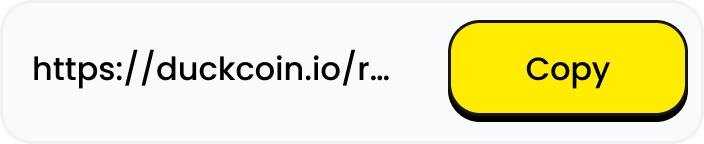
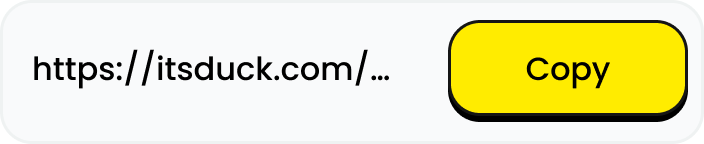
Test

Changed region(s): [[0.2188, 0.3333, 0.5625, 0.6111]]

diff --git a/app/components/page/presale/Referrals.vue b/app/components/page/presale/Referrals.vue
@@ -9,7 +9,7 @@
 
         <div class="copy">
           <p class="copy-text body-m">
-            https://duckcoin.io/ref/sqdd123utm_source=referral&utm_campaign=presale
+            https://itsduck.com/ref/sqdd123utm_source=referral&utm_campaign=presale
           </p>
 
           <button class="copy-btn" @click="copyRef">
@@ -69,7 +69,7 @@
 
 <script setup lang="ts">
 const referral =
-  "https://duckcoin.io/ref/sqdd123utm_source=referral&utm_campaign=presale"
+  "https://itsduck.com/ref/sqdd123utm_source=referral&utm_campaign=presale"
 const copied = ref(false)
 
 const copyRef = async () => {
